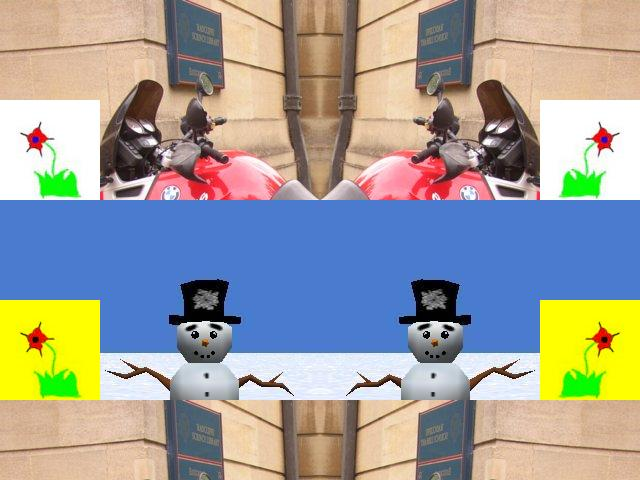
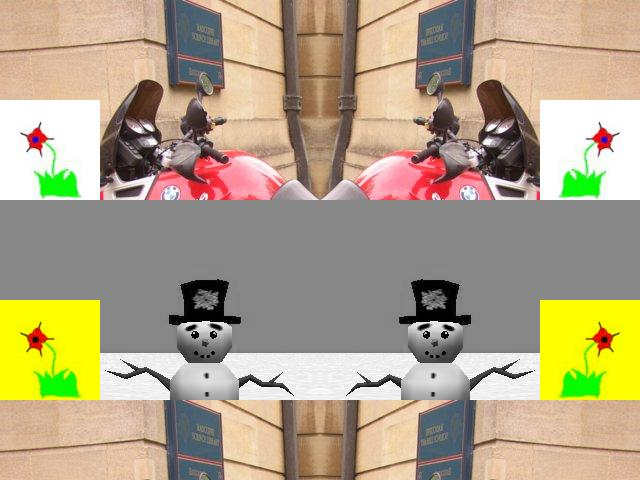
/*

diff --git a/ElevensLab/Deck.java b/ElevensLab/Deck.java
@@ -1,0 +1,104 @@
+import java.util.List;
+import java.util.ArrayList;
+
+/**
+ * The Deck class represents a shuffled deck of cards.
+ * It provides several operations including
+ *      initialize, shuffle, deal, and check if empty.
+ */
+public class Deck {
+
+	/**
+	 * cards contains all the cards in the deck.
+	 */
+	private List<Card> cards;
+
+	/**
+	 * size is the number of not-yet-dealt cards.
+	 * Cards are dealt from the top (highest index) down.
+	 * The next card to be dealt is at size - 1.
+	 */
+	private int size;
+
+
+	/**
+	 * Creates a new <code>Deck</code> instance.<BR>
+	 * It pairs each element of ranks with each element of suits,
+	 * and produces one of the corresponding card.
+	 * @param ranks is an array containing all of the card ranks.
+	 * @param suits is an array containing all of the card suits.
+	 * @param values is an array containing all of the card point values.
+	 */
+	public Deck(String[] ranks, String[] suits, int[] values) {
+		/* *** TO BE IMPLEMENTED IN ACTIVITY 2 *** */
+	}
+
+
+	/**
+	 * Determines if this deck is empty (no undealt cards).
+	 * @return true if this deck is empty, false otherwise.
+	 */
+	public boolean isEmpty() {
+		/* *** TO BE IMPLEMENTED IN ACTIVITY 2 *** */
+	}
+
+	/**
+	 * Accesses the number of undealt cards in this deck.
+	 * @return the number of undealt cards in this deck.
+	 */
+	public int size() {
+		/* *** TO BE IMPLEMENTED IN ACTIVITY 2 *** */
+	}
+
+	/**
+	 * Randomly permute the given collection of cards
+	 * and reset the size to represent the entire deck.
+	 */
+	public void shuffle() {
+		/* *** TO BE IMPLEMENTED IN ACTIVITY 4 *** */
+	}
+
+	/**
+	 * Deals a card from this deck.
+	 * @return the card just dealt, or null if all the cards have been
+	 *         previously dealt.
+	 */
+	public Card deal() {
+		/* *** TO BE IMPLEMENTED IN ACTIVITY 2 *** */
+	}
+
+	/**
+	 * Generates and returns a string representation of this deck.
+	 * @return a string representation of this deck.
+	 */
+	@Override
+	public String toString() {
+		String rtn = "size = " + size + "\nUndealt cards: \n";
+
+		for (int k = size - 1; k >= 0; k--) {
+			rtn = rtn + cards.get(k);
+			if (k != 0) {
+				rtn = rtn + ", ";
+			}
+			if ((size - k) % 2 == 0) {
+				// Insert carriage returns so entire deck is visible on console.
+				rtn = rtn + "\n";
+			}
+		}
+
+		rtn = rtn + "\nDealt cards: \n";
+		for (int k = cards.size() - 1; k >= size; k--) {
+			rtn = rtn + cards.get(k);
+			if (k != size) {
+				rtn = rtn + ", ";
+			}
+			if ((k - cards.size()) % 2 == 0) {
+				// Insert carriage returns so entire deck is visible on console.
+				rtn = rtn + "\n";
+			}
+		}
+
+		rtn = rtn + "\n";
+		return rtn;
+	}
+}

diff --git a/ElevensLab/Card.java b/ElevensLab/Card.java
@@ -1,0 +1,92 @@
+/**
+ * Card.java
+ *
+ * <code>Card</code> represents a playing card.
+ */
+public class Card {
+
+    /**
+     * String value that holds the suit of the card
+     */
+    private String suit;
+
+    /**
+     * String value that holds the rank of the card
+     */
+    private String rank;
+
+    /**
+     * int value that holds the point value.
+     */
+    private int pointValue;
+
+
+   /**
+     * Creates a new <code>Card</code> instance.
+     *
+     * @param cardRank  a <code>String</code> value
+     *                  containing the rank of the card
+     * @param cardSuit  a <code>String</code> value
+     *                  containing the suit of the card
+     * @param cardPointValue an <code>int</code> value
+     *                  containing the point value of the card
+     */
+    public Card(String cardRank, String cardSuit, int cardPointValue) {
+        this.suit = cardSuit;
+        this.rank = cardRank;
+        this.pointValue = cardPointValue;
+    }
+
+
+    /**
+     * Accesses this <code>Card's</code> suit.
+     * @return this <code>Card's</code> suit.
+     */
+    public String suit() {
+        return this.suit;
+   }
+
+    /**
+     * Accesses this <code>Card's</code> rank.
+     * @return this <code>Card's</code> rank.
+     */
+    public String rank() {
+        return this.rank;
+    }
+
+   /**
+     * Accesses this <code>Card's</code> point value.
+     * @return this <code>Card's</code> point value.
+     */
+    public int pointValue() {
+        return this.pointValue;
+    }
+
+    /** Compare this card with the argument.
+     * @param otherCard the other card to compare to this
+     * @return true if the rank, suit, and point value of this card
+     *              are equal to those of the argument;
+     *         false otherwise.
+     */
+    public boolean matches(Card otherCard) {
+        if (this.suit.equals(otherCard.suit) && this.rank.equals(otherCard.rank) && this.pointValue == otherCard.pointValue) {
+           return true;
+        }
+        return false;
+    }
+
+    /**
+     * Converts the rank, suit, and point value into a string in the format
+     *     "[Rank] of [Suit] (point value = [PointValue])".
+     * This provides a useful way of printing the contents
+     * of a <code>Deck</code> in an easily readable format or performing
+     * other similar functions.
+     *
+     * @return a <code>String</code> containing the rank, suit,
+     *         and point value of the card.
+     */
+    @Override
+	public String toString() {
+		return this.rank + " of " + this.suit + " (point value = " + this.pointValue + ")";
+	}
+}

diff --git a/ElevensLab/Shuffler.java b/ElevensLab/Shuffler.java
@@ -1,0 +1,70 @@
+/**
+ * This class provides a convenient way to test shuffling methods.
+ */
+public class Shuffler {
+
+	/**
+	 * The number of consecutive shuffle steps to be performed in each call
+	 * to each sorting procedure.
+	 */
+	private static final int SHUFFLE_COUNT = 1;
+
+
+	/**
+	 * Tests shuffling methods.
+	 * @param args is not used.
+	 */
+	public static void main(String[] args) {
+		System.out.println("Results of " + SHUFFLE_COUNT +
+								 " consecutive perfect shuffles:");
+		int[] values1 = {0, 1, 2, 3};
+		for (int j = 1; j <= SHUFFLE_COUNT; j++) {
+			perfectShuffle(values1);
+			System.out.print("  " + j + ":");
+			for (int k = 0; k < values1.length; k++) {
+				System.out.print(" " + values1[k]);
+			}
+			System.out.println();
+		}
+		System.out.println();
+
+		System.out.println("Results of " + SHUFFLE_COUNT +
+								 " consecutive efficient selection shuffles:");
+		int[] values2 = {0, 1, 2, 3};
+		for (int j = 1; j <= SHUFFLE_COUNT; j++) {
+			selectionShuffle(values2);
+			System.out.print("  " + j + ":");
+			for (int k = 0; k < values2.length; k++) {
+				System.out.print(" " + values2[k]);
+			}
+			System.out.println();
+		}
+		System.out.println();
+	}
+
+
+	/**
+	 * Apply a "perfect shuffle" to the argument.
+	 * The perfect shuffle algorithm splits the deck in half, then interleaves
+	 * the cards in one half with the cards in the other.
+	 * @param values is an array of integers simulating cards to be shuffled.
+	 */
+	public static void perfectShuffle(int[] values) {
+		/* *** TO BE IMPLEMENTED IN ACTIVITY 3 *** */
+	}
+
+	/**
+	 * Apply an "efficient selection shuffle" to the argument.
+	 * The selection shuffle algorithm conceptually maintains two sequences
+	 * of cards: the selected cards (initially empty) and the not-yet-selected
+	 * cards (initially the entire deck). It repeatedly does the following until
+	 * all cards have been selected: randomly remove a card from those not yet
+	 * selected and add it to the selected cards.
+	 * An efficient version of this algorithm makes use of arrays to avoid
+	 * searching for an as-yet-unselected card.
+	 * @param values is an array of integers simulating cards to be shuffled.
+	 */
+	public static void selectionShuffle(int[] values) {
+		/* *** TO BE IMPLEMENTED IN ACTIVITY 3 *** */
+	}
+}

diff --git a/PictureLab/classes/Picture.java b/PictureLab/classes/Picture.java
@@ -220,9 +220,11 @@ public void mirrorHorizontal()
     Picture motorcycle = new Picture("redmotorcycle.jpg");
     Picture flower2 = new Picture("flower2.jpg");
 	Picture snowman = new Picture("snowman.jpg");
+	Picture snowmanGrey = new Picture(snowman);
+	snowmanGrey.grayscale();
     this.copy(motorcycle,0,0);
     this.copy(flower2,100,0);
-    this.copy(snowman,200,0);
+    this.copy(snowmanGrey,200,0);
     Picture flowerNoBlue = new Picture(flower2);
     flowerNoBlue.zeroBlue();
 	Picture motorcycleNegate = new Picture(motorcycle);
@@ -240,8 +242,7 @@ public void mirrorHorizontal()
     Color rightColor = null;
     for (int row = 0; row < pixels.length; row++) {
       for (int col = 0; 
-           col < pixels[0].length-1; col++)
-      {
+           col < pixels[0].length-1; col++) {
         leftPixel = pixels[row][col];
         rightPixel = pixels[row][col+1];
         rightColor = rightPixel.getColor();
@@ -253,6 +254,25 @@ public void mirrorHorizontal()
       }
     }
   }
+  /*public void edgeDetection2(int edgeDist) {
+	  Pixel topPixel = null;
+	  Pixel bottomtPixel = null;
+	  Pixel[][] pixels = this.getPixels2D();
+	  Color bottomColor = null;
+	  for (int row = 0; row < pixels.length; row++) {
+		  for (int col  = 0; col < pixels[0].length-1; col++) {
+			  topPixel = pixels[row][col];
+			  bottomPixel = pixels[row+1][col];
+			  bottomColor = bottomPixel.getColor();
+			  if (topPixel.colorDistance(bottomColor) > edgeDist) {
+				  topPixel.setColor(Color.BLACK);
+			  }
+			  else 
+				  topPixel.setColor(Color.WHITE);
+		  }
+	  }
+  }*/
+  
   public static void main(String[] args) {
     Picture beach = new Picture("beach.jpg");
     beach.explore();

diff --git a/ElevensLab/CardTester.java b/ElevensLab/CardTester.java
@@ -1,0 +1,20 @@
+/**
+ * This is a class that tests the Card class.
+ */
+public class CardTester {
+
+	/**
+	 * The main method in this class checks the Card operations for consistency.
+	 *	@param args is not used.
+	 */
+	public static void main(String[] args) {
+		Card card1 = new Card("Heart", "9", 9);
+		Card card2 = new Card("Heart", "9", 9);
+		Card card3 = new Card("Heart", "Jack", 11);
+		
+		System.out.println(card3.toString());
+		
+		System.out.println("Card 1 and Card 2 should match: " + card2.matches(card1));
+		System.out.println("Card 2 and Card 3 should not match: " + !card2.matches(card3));
+	}
+}

diff --git a/PictureLab/classes/PictureTester.java b/PictureLab/classes/PictureTester.java
@@ -121,6 +121,11 @@ public class PictureTester
     swan.edgeDetection(10);
     swan.explore();
   }
+  public static void testEdgeDetection2() {
+	  Picture swan = new Picture("swan.jpg");
+	  swan.edgeDetection2(10);
+	  swan.explore();
+  }
   public static void main(String[] args)
   {
     // uncomment a call here to run a test
@@ -141,7 +146,7 @@ public class PictureTester
     //testMirrorArms();
     //testMirrorGull();
     //testMirrorDiagonal();
-    testCollage();
+    //testCollage();
     //testCopy();
     //testEdgeDetection();
     //testEdgeDetection2();

diff --git a/ElevensLab/DeckTester.java b/ElevensLab/DeckTester.java
@@ -1,0 +1,13 @@
+/**
+ * This is a class that tests the Deck class.
+ */
+public class DeckTester {
+
+	/**
+	 * The main method in this class checks the Deck operations for consistency.
+	 *	@param args is not used.
+	 */
+	public static void main(String[] args) {
+		/* *** TO BE IMPLEMENTED IN ACTIVITY 2 *** */
+	}
+}
